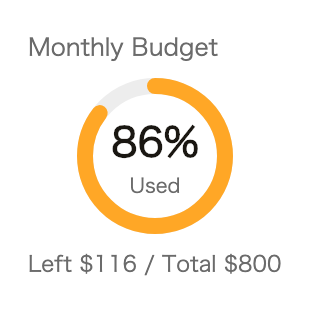
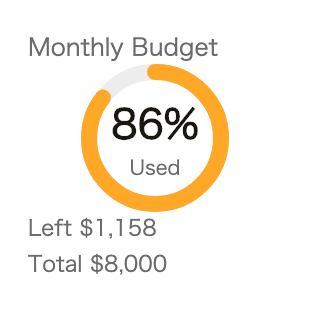
fix(widget): 预算小卡底部金额拆两行不再截断;预览生成器自动同步 iOS 资产

diff --git a/test/widget/widget_preview_generator_test.dart b/test/widget/widget_preview_generator_test.dart
@@ -531,9 +531,9 @@ Future<void> _generatePack(WidgetTester tester, _Pack p) async {
     BudgetView(
       size: HWSize.small,
       overview: BudgetOverview(
-        // 数字刻意取小:155dp 小卡底部一行「剩 ¥x / 总额 ¥y」要能完整放下,
-        // 大金额会被 ellipsis 截断,预览图不好看。
-        totalBudget: BudgetUsage(used: 684, budget: 800),
+        // 真实典型金额:底部已拆两行(剩 ¥x / 总额 ¥y 各一行),千位金额也
+        // 放得下——预览同时验证两行布局不截断。
+        totalBudget: BudgetUsage(used: 6842, budget: 8000),
         categoryBudgets: [
           CategoryBudgetUsage(
             budgetId: 1,
@@ -692,6 +692,26 @@ void main() {
     (tester) async {
       await _generatePack(tester, _zh);
       await _generatePack(tester, _en);
+
+      // 同步一份到 iOS 扩展 bundle(添加页静态预览,见 WidgetPreviewAssets):
+      // Android 语言目录 → ios/BeeCountWidget/Previews/<base>_{zh,en}.png,
+      // 避免双份资产漂移(iOS 那份最初是手工拷的快照,现在随生成器自动同步)。
+      const iosDir = 'ios/BeeCountWidget/Previews';
+      Directory(iosDir).createSync(recursive: true);
+      var synced = 0;
+      for (final pack in [_zh, _en]) {
+        for (final f in Directory(pack.outDir).listSync().whereType<File>()) {
+          final base = f.uri.pathSegments.last;
+          if (!base.startsWith('widget_preview_') || !base.endsWith('.png')) {
+            continue;
+          }
+          final name = base.substring(0, base.length - 4);
+          f.copySync('$iosDir/${name}_${pack.name}.png');
+          synced++;
+        }
+      }
+      // ignore: avoid_print
+      print('已同步 $synced 个预览到 $iosDir');
     },
     // 预览图生成器:GEN_WIDGET_PREVIEWS=1 手动运行,CI 上自动跳过。
     skip: !_enabled,

diff --git a/test/widget/budget_view_test.dart b/test/widget/budget_view_test.dart
@@ -57,6 +57,38 @@ void main() {
     expect(find.text('17%'), findsOneWidget);
   });
 
+  // 小卡底部拆两行:千位金额也放得下(真机反馈单行被 ellipsis 截断)。
+  testWidgets('small:千位金额底部两行完整显示,不截断', (tester) async {
+    const size = Size(155, 155);
+    await tester.pumpWidget(Directionality(
+      textDirection: TextDirection.ltr,
+      child: SizedBox(
+        width: size.width,
+        height: size.height,
+        child: BudgetView(
+          size: HWSize.small,
+          overview: BudgetOverview(
+            totalBudget: BudgetUsage(used: 6842, budget: 8000),
+            categoryBudgets: const [],
+            daysRemaining: 11,
+            dailyAvailable: 105.3,
+          ),
+          currencyCode: 'CNY',
+          themeColor: const Color(0xFFF5A623),
+          redForIncome: true,
+          dark: false,
+          width: size.width,
+          height: size.height,
+        ),
+      ),
+    ));
+    await tester.pump();
+
+    expect(tester.takeException(), isNull);
+    expect(find.text('剩 ¥1,158'), findsOneWidget);
+    expect(find.text('总额 ¥8,000'), findsOneWidget);
+  });
+
   CategoryBudgetUsage category(String name, double used, double budget) {
     return CategoryBudgetUsage(
       budgetId: name.hashCode,

diff --git a/lib/widget/views/budget_view.dart b/lib/widget/views/budget_view.dart
@@ -206,8 +206,21 @@ class BudgetView extends StatelessWidget {
               ),
             ),
           ),
+          // 底部拆两行:155dp 小卡放不下「剩 ¥x / 总额 ¥y」一行千位金额
+          // (真机反馈被 ellipsis 截断),两行各自短、基本不会再截。
           Text(
-            '$remainingLabel ${_money(total.remaining)} / $totalLabel ${_money(total.budget)}',
+            '$remainingLabel ${_money(total.remaining)}',
+            maxLines: 1,
+            overflow: TextOverflow.ellipsis,
+            style: TextStyle(
+              fontSize: 11,
+              color: widgetTextSecondary(dark),
+              fontFeatures: const [kWidgetTabularFeature],
+            ),
+          ),
+          const SizedBox(height: 1),
+          Text(
+            '$totalLabel ${_money(total.budget)}',
             maxLines: 1,
             overflow: TextOverflow.ellipsis,
             style: TextStyle(
